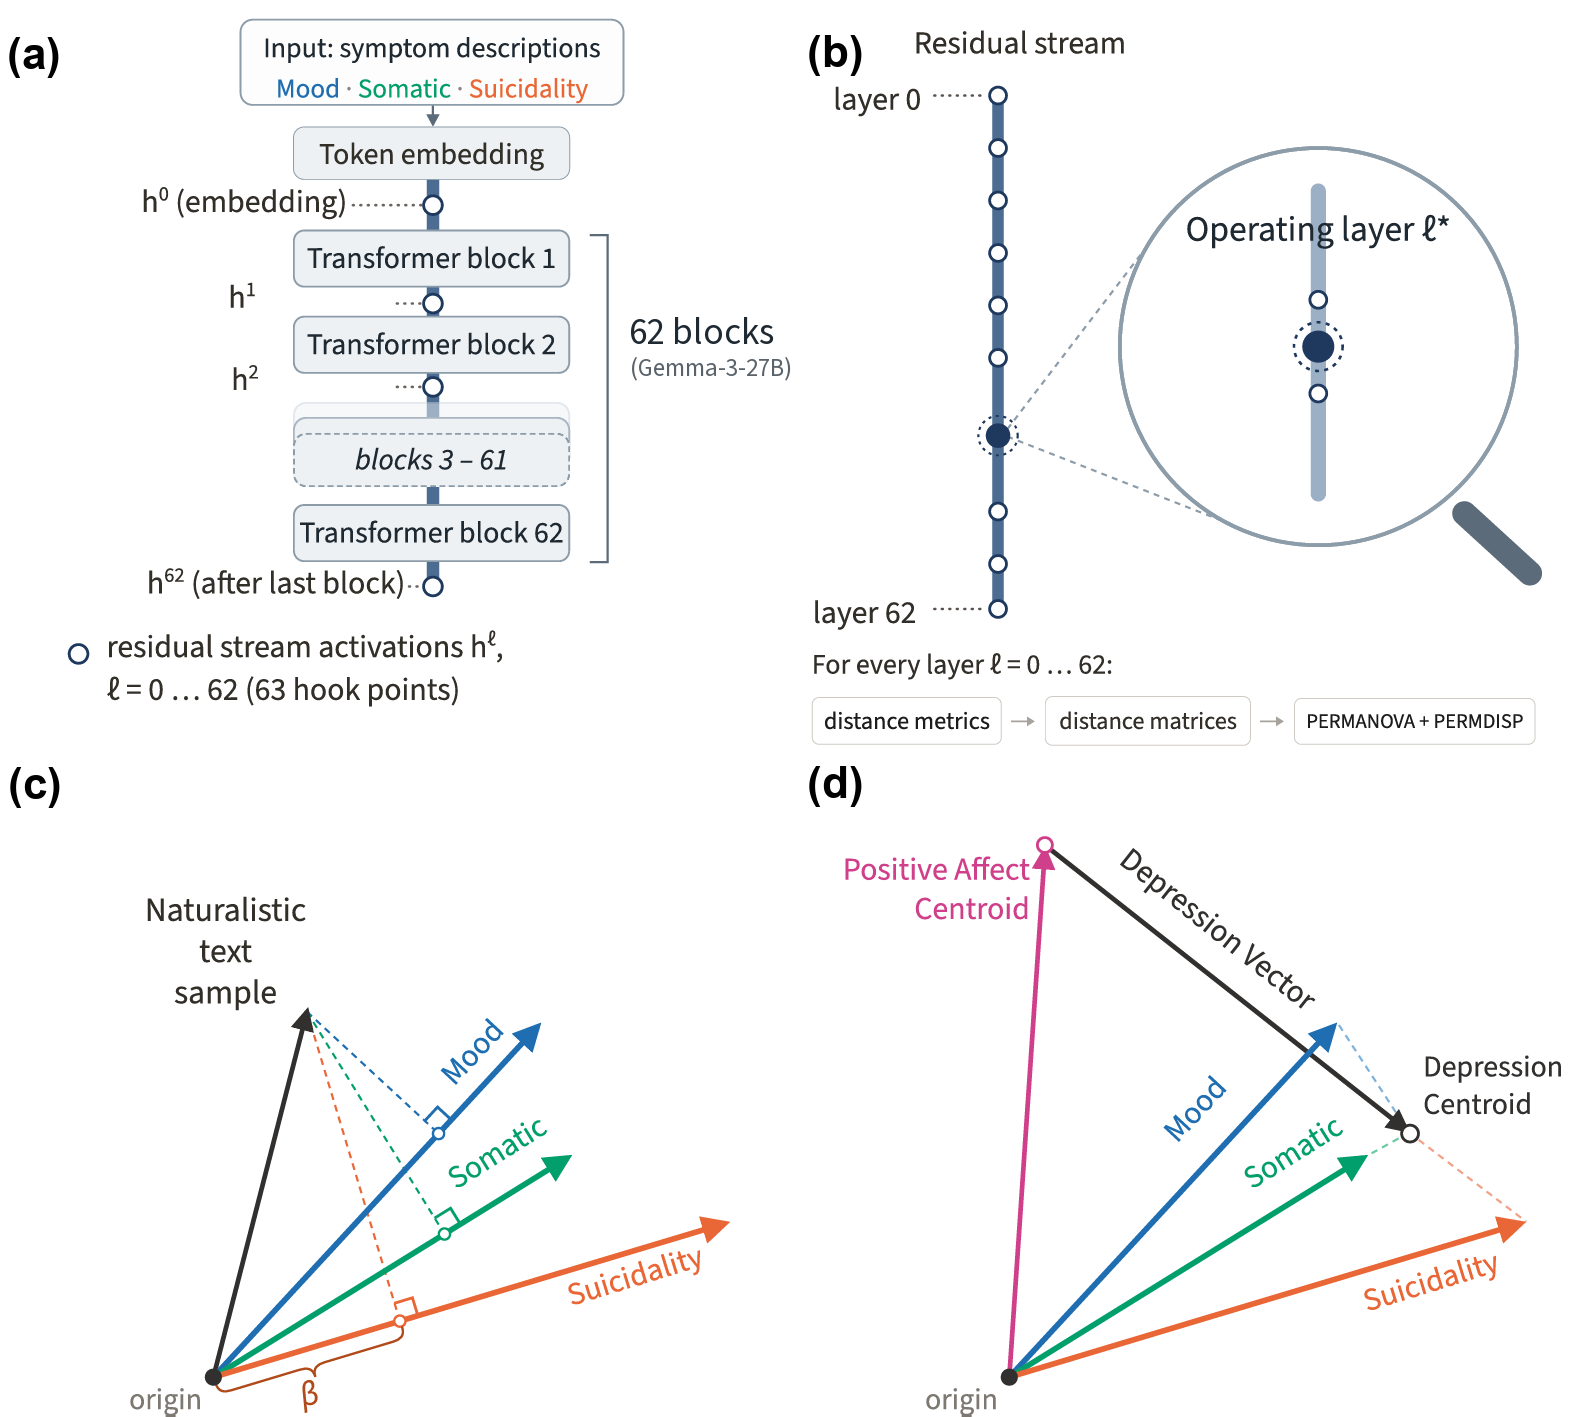
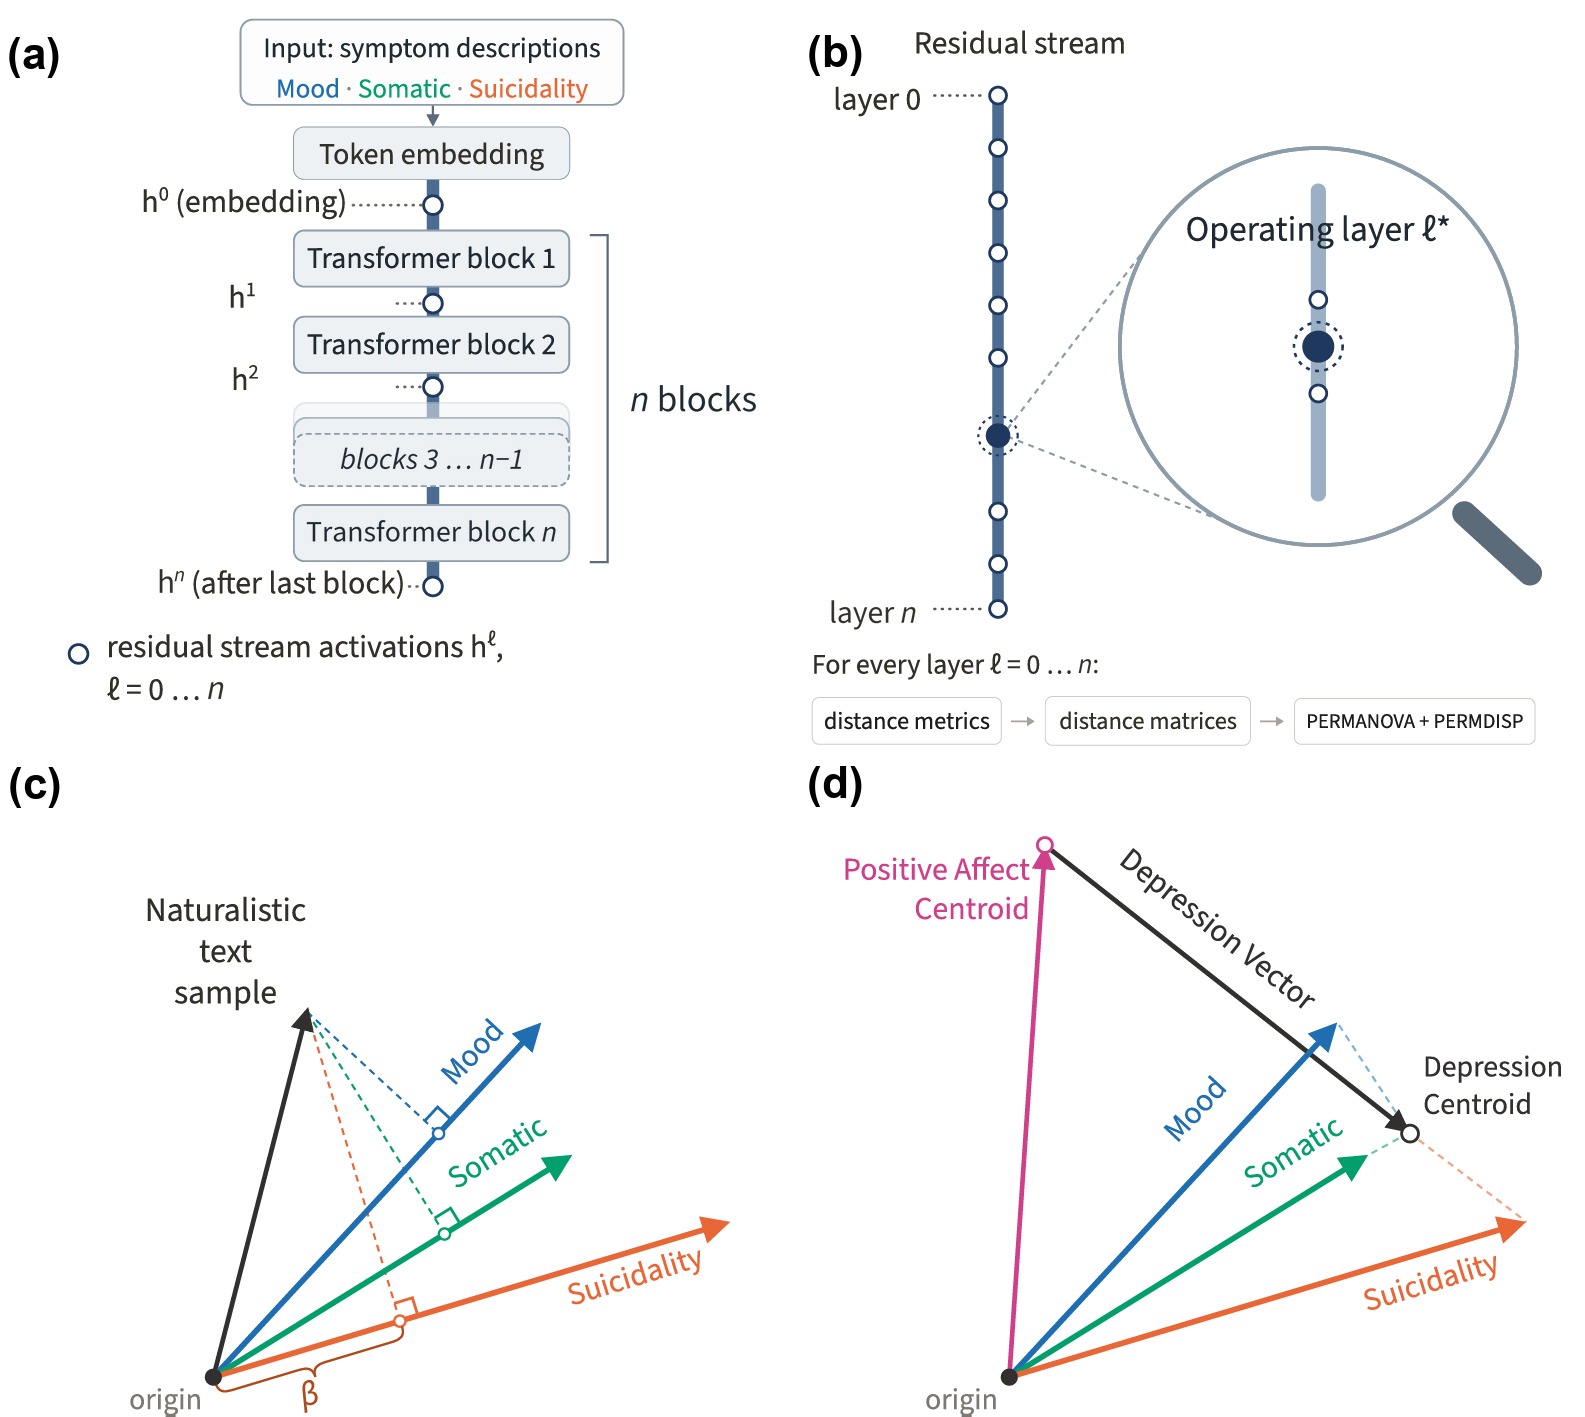
Update confusing math and missing application

diff --git a/tmlr-beyond-pdf-author-kit/submission_folder/submission.md b/tmlr-beyond-pdf-author-kit/submission_folder/submission.md
@@ -1,7 +1,6 @@
 ---
 layout: distill
 title: Interpretable Symptom Vectors for Depression in Large Language Models
-description: Depression symptom categories are represented as directions in the residual streams of ten open-weight language models. Projecting unseen depressive text onto Symptom Vectors built from clinical symptom descriptions agrees with clinician annotations in every model.
 htmlwidgets: true
 
 # Anonymized for review
@@ -64,7 +63,7 @@ As shown in Figure 1, our analysis consists of four stages: (1) extracting resid
 
 <figure id="fig-pipeline" style="text-align: center; margin: 20px 0;">
   <img src="{{ 'assets/img/submission/1.pipeline.png' | relative_url }}" style="max-width: 100%; height: auto;" alt="Analysis pipeline diagram in four panels">
-  <figcaption style="text-align: left;"><b>Figure 1: Analysis pipeline</b>, applied to each model. <b>(a)</b> Residual stream activations are extracted at every layer for symptom descriptions from three groups. <b>(b)</b> Distance matrices are tested with PERMANOVA and PERMDISP at each layer to select the operating layer ℓ*. <b>(c)</b> Symptom Vectors are built from the group centroids at ℓ*, and naturalistic text is projected onto them to obtain coefficients β. <b>(d)</b> The Depression Vector is the difference between the Depression Centroid and the Positive Affect Centroid. Layer counts are shown for Gemma-3-27B; the other models have 34–64 blocks.</figcaption>
+  <figcaption style="text-align: left;"><b>Figure 1: Analysis pipeline</b>, applied to each model. <b>(a)</b> Residual stream activations are extracted at every layer for symptom descriptions from three groups. <b>(b)</b> Distance matrices are tested with PERMANOVA and PERMDISP at each layer to select the operating layer ℓ*. <b>(c)</b> Symptom Vectors are built from the group centroids at ℓ*, and naturalistic text is projected onto them to obtain coefficients β. <b>(d)</b> The Depression Vector is the difference between the Depression Centroid and the Positive Affect Centroid. Each model has <i>n</i> transformer blocks (34–64 across the ten models).</figcaption>
 </figure>
 
 ### Text corpora
@@ -206,14 +205,14 @@ Different residual stream layers encode different information. To identify where
 
 #### Pairwise distance matrices
 
-For a given input, the residual stream activation is a variable-length sequence of high-dimensional vectors (2,560–5,376 dimensions across the ten models), where each token’s vector depends on all preceding tokens through self-attention. Tokens within an activation are therefore not independent samples; each activation has to be compared as a whole. There is no established method for measuring the distance between residual streams generated by prompts of different lengths for the purpose of comparing textual meaning. We tested the efficacy of eight distance-metric × normalization combinations: Centroid Cosine Distance, Centroid Euclidean Distance, Earth Mover's Distance, and Energy Distance, each computed on both raw and $\ell^2$-normalized residual stream activations, at every residual stream layer $\ell$ of each model.
+For a given input, the residual stream activation is a variable-length sequence of high-dimensional vectors (2,560–5,376 dimensions across the ten models), where each token’s vector depends on all preceding tokens through self-attention. Tokens within an activation are therefore not independent samples; each activation has to be compared as a whole. There is no established method for measuring the distance between residual streams generated by prompts of different lengths for the purpose of comparing textual meaning. We tested the efficacy of eight distance-metric × normalization combinations: Centroid Cosine Distance, Centroid Euclidean Distance, Earth Mover's Distance, and Energy Distance, each computed on both raw and unit-normalized residual stream activations, at every residual stream layer $\ell$ of each model.
 
 These metrics are not directly comparable, so we reduced each to a common representation: a pairwise distance matrix. For a given metric and layer, entry $(i, j)$ is the distance between the residual stream activations of prompts $i$ and $j$ from the Core Clinical corpus. Classical ANOVA and MANOVA need fixed-length coordinate vectors and normally distributed underlying data; residual streams satisfy neither requirement. PERMANOVA operates directly on the pairwise distances, and its pseudo-$F$ statistic is sensitive to the distance between group centroids. Because pseudo-$F$ is a ratio of between- to within-group variation, it is unaffected by the absolute scale of the input distances. PERMANOVA can thus be used to compare different metrics directly.
 
-The centroid metrics use the mean of all token activations. Let $h_t^{\ell}$ denote the residual stream activation of token $t$ at layer $\ell$, for a sequence of $T$ tokens. The layer's centroid is defined as:
+The centroid metrics use the mean of all token activations. Let $h_{x,t}$ denote the residual stream activation of token $t$ of passage $x$ at layer $\ell$, for a passage of $T_x$ tokens. Excluding `<bos>`, the passage centroid is
 
 $$
-\bar{h}^{\ell} = \frac{1}{T} \sum_{t=1}^{T} h_t^{\ell}.
+\bar{h}_x = \frac{1}{T_x} \sum_{t=1}^{T_x} h_{x,t}.
 $$
 
 The centroid distance is then computed using PyTorch tensor operations <d-cite key="ansel2024pytorch2"></d-cite>.
@@ -222,13 +221,13 @@ Distribution-based metrics (Earth Mover's, Energy) were computed directly betwee
 
 #### PERMANOVA with the PERMDISP eligibility gate
 
-We want the layer at which excerpts cluster most tightly by symptom, with excerpts of the same symptom close together and different symptoms far apart. Using the pairwise distance matrices, we assessed the separability of residual stream activations across symptom groups with PERMANOVA, gated by PERMDISP. At each layer and for each metric, we computed a PERMANOVA pseudo-$F$ statistic <d-cite key="anderson2001permanova"></d-cite>:
+Using the pairwise distance matrices, we assessed the separability of residual stream activations across symptom groups with PERMANOVA, gated by PERMDISP. At each layer and for each metric, we computed a PERMANOVA pseudo-$F$ statistic <d-cite key="anderson2001permanova"></d-cite>:
 
 $$
-\text{pseudo-}F = \frac{SS_B / (g - 1)}{SS_W / (n - g)}, \qquad SS_T = \frac{1}{n} \sum_{i < j} d_{ij}^2, \quad SS_W = \sum_{k=1}^{g} \frac{1}{n_k} \sum_{i < j;\ i, j \in k} d_{ij}^2, \quad SS_B = SS_T - SS_W,
+\text{pseudo-}F = \frac{\sum(\text{Between-Group Distance})^2 / (g-1)}{\sum(\text{Within-Group Distance})^2 / (n-g)},
 $$
 
-where $d_{ij}$ is the distance between excerpts $i$ and $j$, $g = 3$ is the number of symptom groups, $n_k$ is the number of excerpts in group $k$, and $n$ is the total number of excerpts. Pseudo-$F$ is large when excerpts cluster tightly by symptom. Its significance is assessed by shuffling the symptom labels and recomputing pseudo-$F$; the $p$-value is the fraction of permutations, counting the observed labeling as one, whose pseudo-$F$ matches or exceeds the observed value, so with 9,999 shuffles the smallest attainable $p$ is 0.0001.
+where $g = 3$ is the number of symptom groups and $n$ is the total number of excerpts.
 
 PERMANOVA is sensitive not only to differences in group centroid location but also to differences in within-group multivariate dispersion: a group whose excerpts are widely spread can produce a significant pseudo-$F$ even when its centroid coincides with the others. To screen out layers where this happens, we computed the Permutational Analysis of Multivariate Dispersions (PERMDISP) <d-cite key="anderson2006permdisp"></d-cite>, which tests the null hypothesis of equal within-group dispersion, at every layer, and define the *eligible region* of a metric as the set of layers at which PERMDISP is non-significant ($p > 0.05$). All distance statistics were computed with the scikit-bio package <d-cite key="aton2026scikitbio"></d-cite> (PERMDISP with `test="centroid"`), each on 9,999 permutations with a fixed seed.
 
@@ -425,7 +424,13 @@ The centroid metrics peaked at the operating layer more often than Earth Mover's
 
 We adapt the semantic projection framework of Grand et al. <d-cite key="grand2022semantic"></d-cite>, who recovered human judgments of object features by projecting word vectors onto interpretable axes; for example, the line from "small" to "big" tracks perceived size. We make three changes. The axes are class centroids rather than antonym pairs, because symptom categories have no natural antonyms. The three axes are projected jointly, with a Gram-inverse correction that isolates each axis's own contribution. And the projected representations are residual stream activations at the operating layer rather than static word vectors.
 
-**Symptom Vectors.** At the operating layer $\ell^\ast$, each Symptom Vector $v_s \in \mathbb{R}^{d}$, for $s \in \lbrace \text{mood}, \text{somatic}, \text{suicidality} \rbrace$, is the token-weighted centroid of all Core Clinical token activations for symptom $s$ (excluding `<bos>`). Stacking them gives the basis
+**Symptom Vectors.** At the operating layer $\ell^\ast$, each Symptom Vector $v_s \in \mathbb{R}^{d}$, where $d$ is the model's hidden dimension and $s \in \lbrace \text{mood}, \text{somatic}, \text{suicidality} \rbrace$, is the token-weighted centroid of the Core Clinical excerpts $C_s$ for symptom $s$ (excluding `<bos>`):
+
+$$
+v_s = \frac{1}{N_s} \sum_{x \in C_s} \sum_{t=1}^{T_x} h_{x,t}, \qquad N_s = \sum_{x \in C_s} T_x.
+$$
+
+Stacking them gives the basis
 
 $$
 V = [\, v_{\text{mood}};\ v_{\text{somatic}};\ v_{\text{suicidality}} \,] \in \mathbb{R}^{3 \times d},
@@ -433,13 +438,13 @@ $$
 
 whose span we call the *symptom subspace*.
 
-**Projection.** Depression symptoms co-occur in text, so the Symptom Vectors overlap, and a plain projection would count their shared signal on every axis. We correct for this with the Gram matrix $G = V V^\top$. For a passage $x$ with operating-layer centroid $c(x)$, the coefficients are
+**Projection.** Depression symptoms co-occur in text, so the Symptom Vectors overlap, and a plain projection would count their shared signal on every axis. We correct for this with the Gram matrix $G = V V^\top$. For a passage $x$ with centroid $\bar{h}_x$ at the operating layer, the coefficients are
 
 $$
-\beta(x) = G^{-1} V \, c(x) = (\beta_{\text{mood}}, \beta_{\text{somatic}}, \beta_{\text{suicidality}}).
+\beta(x) = G^{-1} V \, \bar{h}_x = (\beta_{\text{mood}}, \beta_{\text{somatic}}, \beta_{\text{suicidality}}).
 $$
 
-When the basis is orthonormal, $G^{-1} = I$ and this reduces to Grand et al.'s independent projection onto each axis. When the axes overlap, the Gram inverse isolates each axis's own contribution. A positive $\beta_s$ means the passage points along $v_s$, and a negative one means it points against it. Because $V$ is fixed, coefficients from different passages and corpora share one coordinate system. The condition number $\kappa(G) = \lambda_{\max} / \lambda_{\min}$ measures how collinear the Symptom Vectors are; we report it for each model in the Results.
+When the basis is orthonormal, $G^{-1}$ is the identity and this reduces to Grand et al.'s independent projection onto each axis. When the axes overlap, the Gram inverse isolates each axis's own contribution. A positive $\beta_s$ means the passage points along $v_s$, and a negative one means it points against it. Because $V$ is fixed, coefficients from different passages and corpora share one coordinate system. The condition number $\kappa(G)$, the ratio of $G$'s largest to smallest eigenvalue, measures how collinear the Symptom Vectors are; we report it for each model in the Results.
 
 **Evaluation.** We projected every Core Clinical and Naturalistic passage. The Core Clinical projections are an in-sample consistency check, and the held-out Naturalistic projections test generalization. Group differences on each axis were tested with Dunn's post-hoc test, Benjamini–Hochberg corrected within each corpus.
 
@@ -477,33 +482,27 @@ Because projecting non-depressive text onto Symptom Vectors is not meaningful, w
 1. The *Depression* centroid is the centroid of the three Symptom Vectors from the previous experiment, constructed from the Core Clinical corpus. This gives equal weight to all three symptoms:
 
 $$
-\bar{h}_{\text{depressive}} = \frac{v_{\text{mood}} + v_{\text{somatic}} + v_{\text{suicidality}}}{3}.
+\mu_{\text{depressive}} = \frac{v_{\text{mood}} + v_{\text{somatic}} + v_{\text{suicidality}}}{3}.
 $$
 
 {:start="2"}
-2. The *Positive Affect* centroid is the token-weighted mean over all tokens of the entire Positive Affect corpus, excluding `<bos>`:
-
-$$
-\bar{h}_{\text{positive}} = \frac{1}{N_P} \sum_{x \in P} \sum_{t=1}^{T_x} h_{x,t}, \qquad N_P = \sum_{x \in P} T_x,
-$$
-
-where $P$ is the set of positive-affect texts, $T_x$ is the number of tokens in text $x$, $t$ indexes the tokens within a text, and $N_P$ is the total token count across the set.
+2. The *Positive Affect* centroid $\mu_{\text{positive}}$ is the token-weighted centroid of the Positive Affect corpus, computed in the same way as $v_s$ (excluding `<bos>`).
 
 We then define the *Depression Vector* to be:
 
 $$
-v_{\text{depression}} = \bar{h}_{\text{depressive}} - \bar{h}_{\text{positive}}.
+v_{\text{depression}} = \mu_{\text{depressive}} - \mu_{\text{positive}}.
 $$
 
 The Naturalistic corpus and the HappyDB corpus are reserved as held-out tests that are not included in the construction of these axes.
 
-An excerpt $x$ is scored by the cosine similarity between its token-weighted centroid $\bar{h}_x$ (computed as above, excluding `<bos>`) and the Depression Vector; we call this the *Depression Score* of excerpt $x$:
+An excerpt $x$ is scored by the cosine similarity between its centroid $\bar{h}_x$ and the Depression Vector; we call this the *Depression Score* of excerpt $x$:
 
 $$
 \text{Score}(x) = \cos(\bar{h}_x, v_{\text{depression}}) = \frac{\bar{h}_x \cdot v_{\text{depression}}}{\lVert \bar{h}_x \rVert \, \lVert v_{\text{depression}} \rVert}.
 $$
 
-We compared Depression Scores between the held-out Naturalistic and HappyDB corpora (423 excerpts each) using a one-sided Mann–Whitney $U$ test. We report the test statistic in its normalized form $U / (n_1 n_2)$, where $n_1$ and $n_2$ are the number of excerpts in the two corpora being compared, which equals the area under the receiver operating characteristic curve (AUC) and is interpretable as a probability of superiority: the chance that a randomly drawn depressive excerpt scores higher than a randomly drawn non-depressive one. A value of 0.5 indicates no separation; 1.0 indicates complete separation. We computed the same statistic for Core Clinical versus Positive Affect as an in-sample consistency check.
+We compared Depression Scores between the held-out Naturalistic and HappyDB corpora (423 excerpts each) using a one-sided Mann–Whitney $U$ test. We report the normalized statistic $U/(n_1 n_2)$, where $n_1$ and $n_2$ are the two corpus sizes. It equals the AUC: the probability that a randomly drawn depressive excerpt outscores a randomly drawn non-depressive one (0.5, no separation; 1.0, complete separation). We computed the same statistic for Core Clinical versus Positive Affect as an in-sample consistency check.
 
 ### Results
 
@@ -560,6 +559,8 @@ Stronger separation did not translate into better downstream generalization. Eve
 Our findings extend work showing that semantic categories, including sentiment, are encoded as approximately linear directions in LLM residual streams <d-cite key="park2025geometry,hollinsworth2024sentiment,dipalma2025llamas"></d-cite>. While prior work has characterized coarse valence, we map an instrument-derived symptom taxonomy (DSM-5, ICD-10, HAM-D, MADRS, PHQ-9, and PROCEED) onto a model's internal representations and extract symptom signals along three axes, from the internal activations of unmodified models rather than from generated output or a fine-tuned model.
 
 The Gram-inverse correction turns overlapping clinical categories into a common set of measurement axes, so that text excerpts from different sources can be scored and compared on the same scale. It does so even when the symptom axes are nearly parallel: the Symptom Vectors overlap substantially in Mistral and OLMo ($\kappa(G) \approx 35$) and are nearly parallel in every Gemma-3 model ($\kappa(G)$ of 8,959–18,144). Yet in all ten models each clinician-annotated group had the highest median coefficient on its own axis. In the Gemma-3 models, whose bases are the most collinear, a passage's three coefficients sum to nearly 1 (mean 0.99–1.03), which is why their passages lie close to a plane in Figure 4. This follows from the anisotropy of transformer representations: contextual activations occupy a narrow cone of the embedding space, so any two of them have high cosine similarity <d-cite key="ethayarajh2019contextual"></d-cite>, largely because a few high-magnitude dimensions dominate their geometry <d-cite key="timkey2021allbark"></d-cite>. Each Gemma-3 Symptom Vector is thus mostly a shared direction plus a small symptom-specific offset, and rebuilding a passage's share of that common direction from three nearly identical vectors forces the coefficients to sum to about 1, so the passages vary only within the plane. Mistral and OLMo, whose Symptom Vectors are far less collinear ($\kappa(G) \approx 35$), are less constrained, and their passages spread more across all three dimensions of the subspace. In every model, our evidence supports reading the coefficients relative to one another, as an indication of which symptom dominates a passage. The Depression Vector, by contrast, follows the semantic-projection framework of Grand et al. <d-cite key="grand2022semantic"></d-cite> closely: because depressive and positive affect are opposed in emotional valence, a contrastive axis between them is well defined, and a simple cosine projection onto it generalizes to unseen text.
+
+The black-box nature of large language models is a major barrier to clinical trust and the translation of model-based tools into care. Our pipeline reads symptom signals directly from residual stream activations, so the signal is available within the activation space without inspecting generated output. Paired with the Depression Vector as a valence gate, it would assign symptom scores only to depressive speech. The Symptom Vectors are also candidate directions for steering models toward safer responses to vulnerable users; unlike prior steering methods, which typically rely on a single general-purpose direction <d-cite key="panickssery2024steering,zou2023representation"></d-cite>, they are grounded in clinical categories. Finally, extracting symptom-group scores from naturalistic speech yields a quantitative signal that can be correlated with fMRI, resting EEG, or TMS-evoked potentials <d-cite key="parmigiani2023reliability"></d-cite>. This builds on approaches that mapped continuous behavioral markers to neural activity in naturalistic settings, such as decoding facial expressions for pain <d-cite key="huang2025naturalistic"></d-cite> and mood <d-cite key="kakusa2025distinct"></d-cite>. Applied to language, it can test whether the mood and somatic dimensions extracted by the LLM correspond to dissociable neural signatures, a step toward the symptom-specific targets of precision psychiatry <d-cite key="cline2026personalizing"></d-cite>.
 
 ### Limitations
 
